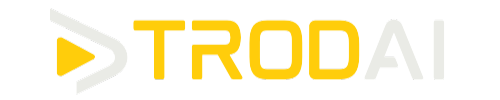
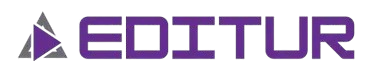
Optimize landing page with editurLogo.png and improved CTA button
1. Logo Updates:
   - Updated all components to use /editurLogo.png (transparent logo)
   - Updated Navbar, Footer, Hero, app-sidebar, admin layout
   - Updated branding settings and hooks to use new logo
   - Updated API defaults and mock data

2. CTA Button Improvements:
   - Removed white background area from yellow CTA button
   - Simplified design with direct logo placement
   - Changed text from 'Start earning. Get video in 1 min' to 'Make reels in 1 minute'
   - Increased font sizes for better visual hierarchy
   - Added better spacing and hover effects
   - More modern, cleaner appearance

All media files and logos are now tracked and will be included in deployment.

diff --git a/components/Hero.tsx b/components/Hero.tsx
@@ -94,24 +94,23 @@ const Hero = () => {
                 transition={{ duration: 1, delay: 0.6 }}
                 className="mt-8"
             >
-                <Link href={"/sign-up"} className="flex items-center gap-2 bg-yellow px-6 py-3 rounded-2xl text-black font-medium shadow-lg hover:bg-yellow-500">
-                    <div className="flex items-center gap-2">
-                        <div className="p-2 bg-white rounded-full">
+                <Link href={"/sign-up"} className="flex items-center gap-3 bg-yellow px-6 py-4 rounded-2xl text-black font-medium shadow-lg hover:bg-yellow-500 transition-all">
+                    <div className="flex items-center gap-3">
+                        <div className="p-1">
                             <Image 
-                                src={branding.faviconUrl || "/icon.png"} 
-                                width={24} 
-                                height={24} 
+                                src="/editurLogo.png" 
+                                width={28} 
+                                height={28} 
                                 alt={branding.siteName} 
                             />
                         </div>
                         <div className="flex flex-col justify-start items-start">
-                            <span className="font-semibold">{branding.siteName}</span>
-                            <span className="font-light text-sm">Online, 24/7</span>
+                            <span className="font-semibold text-base">{branding.siteName}</span>
+                            <span className="font-light text-sm opacity-80">Online, 24/7</span>
                         </div>
-
                     </div>
-                    <span className="bg-white px-2 py-3 rounded-xl text-sm font-medium">
-                        Start earning. Get video in 1 min
+                    <span className="font-semibold text-base">
+                        Make reels in 1 minute
                     </span>
                 </Link>
             </motion.div>

diff --git a/app/admin/layout.tsx b/app/admin/layout.tsx
@@ -99,7 +99,7 @@ export default function AdminLayout({
         const data = await response.json();
         setBrandingSettings({
           siteName: data.siteName || "Editur AI",
-          logoUrl: data.logoUrl || "/branding/logo.png",
+          logoUrl: data.logoUrl || "/editurLogo.png",
           faviconUrl: data.faviconUrl || null,
           primaryColor: data.primaryColor || "#8B5CF6",
           accentColor: data.accentColor || "#F59E0B",
@@ -134,12 +134,12 @@ export default function AdminLayout({
             <div className="flex items-center">
               {brandingSettings.logoUrl ? (
                 <Image 
-                  src={"editur.png"} 
+                  src="/editurLogo.png" 
                   width={140} 
                   height={40} 
                   alt={brandingSettings.siteName} 
                   className="object-contain h-8"
-                  onError={() => setBrandingSettings(prev => ({...prev, logoUrl: "/branding/logo.png"}))}
+                  onError={() => setBrandingSettings(prev => ({...prev, logoUrl: "/editurLogo.png"}))}
                 />
               ) : (
                 <h2 className="text-xl font-bold" style={{ color: brandingSettings.primaryColor }}>

diff --git a/lib/db.ts b/lib/db.ts
@@ -18,9 +18,9 @@ const createPrismaMock = () => {
               console.warn('Prisma browser mock: Returning default branding settings');
               return Promise.resolve({
                 id: 'mock-id',
-                siteName: "Trod AI",
-                logoUrl: "/branding/logo.png",
-                faviconUrl: "/branding/favicon.png",
+                siteName: "Editur AI",
+                logoUrl: "/editurLogo.png",
+                faviconUrl: "/editurLogo.png",
                 primaryColor: "#8B5CF6",
                 accentColor: "#F59E0B",
                 defaultFont: "Poppins",

diff --git a/lib/prisma.ts b/lib/prisma.ts
@@ -18,9 +18,9 @@ const createPrismaMock = () => {
               console.warn('Prisma browser mock: Returning default branding settings');
               return Promise.resolve({
                 id: 'mock-id',
-                siteName: "Trod AI",
-                logoUrl: "/branding/logo.png",
-                faviconUrl: "/branding/favicon.png",
+                siteName: "Editur AI",
+                logoUrl: "/editurLogo.png",
+                faviconUrl: "/editurLogo.png",
                 primaryColor: "#8B5CF6",
                 accentColor: "#F59E0B",
                 defaultFont: "Poppins",

diff --git a/app/api/branding/route.ts b/app/api/branding/route.ts
@@ -10,8 +10,8 @@ import { Role } from '@/lib/constants';
 // Define default branding settings
 const defaultBranding = {
   siteName: "Editur AI",
-  logoUrl: "/branding/logo.png",
-  faviconUrl: "/branding/favicon.png",
+  logoUrl: "/editurLogo.png",
+  faviconUrl: "/editurLogo.png",
   primaryColor: "#8B5CF6",
   accentColor: "#F59E0B",
   defaultFont: "Poppins"

diff --git a/components/Navbar.tsx b/components/Navbar.tsx
@@ -74,7 +74,7 @@ const Navbar = () => {
         {/* Logo */}
         <Link href={"/"} className="flex items-center gap-2 pl-4">
           <Image 
-            src={branding.logoUrl || "/branding/logo.png"} 
+            src="/editurLogo.png" 
             alt={branding.siteName} 
             className="text-white" 
             width={130} 

diff --git a/hooks/useBrandingSettings.ts b/hooks/useBrandingSettings.ts
@@ -13,8 +13,8 @@ export type BrandingSettings = {
 
 const defaultSettings: BrandingSettings = {
   siteName: "Editur AI",
-  logoUrl: "/branding/logo.png",
-  faviconUrl: "/branding/favicon.png",
+  logoUrl: "/editurLogo.png",
+  faviconUrl: "/editurLogo.png",
   primaryColor: "#8B5CF6",
   accentColor: "#F59E0B",
   defaultFont: "Poppins"

diff --git a/components/Footer.tsx b/components/Footer.tsx
@@ -21,7 +21,7 @@ const Footer = () => {
         <div>
           <Link href="/" className="flex items-center gap-2 mb-4 ">
             <Image 
-              src={branding.logoUrl || "/editur.png"} 
+              src="/editurLogo.png" 
               alt={branding.siteName} 
               width={130} 
               height={30} 

diff --git a/components/app-sidebar.tsx b/components/app-sidebar.tsx
@@ -74,7 +74,7 @@ export function AppSidebar({ ...props }: React.ComponentProps<typeof Sidebar>) {
       id: session?.user?.id || "user-1",
     },
     logo: {
-      logo: "/trod.png",
+      logo: "/editurLogo.png",
       name: branding.siteName,
       link: "/dashboard/home"
     },
